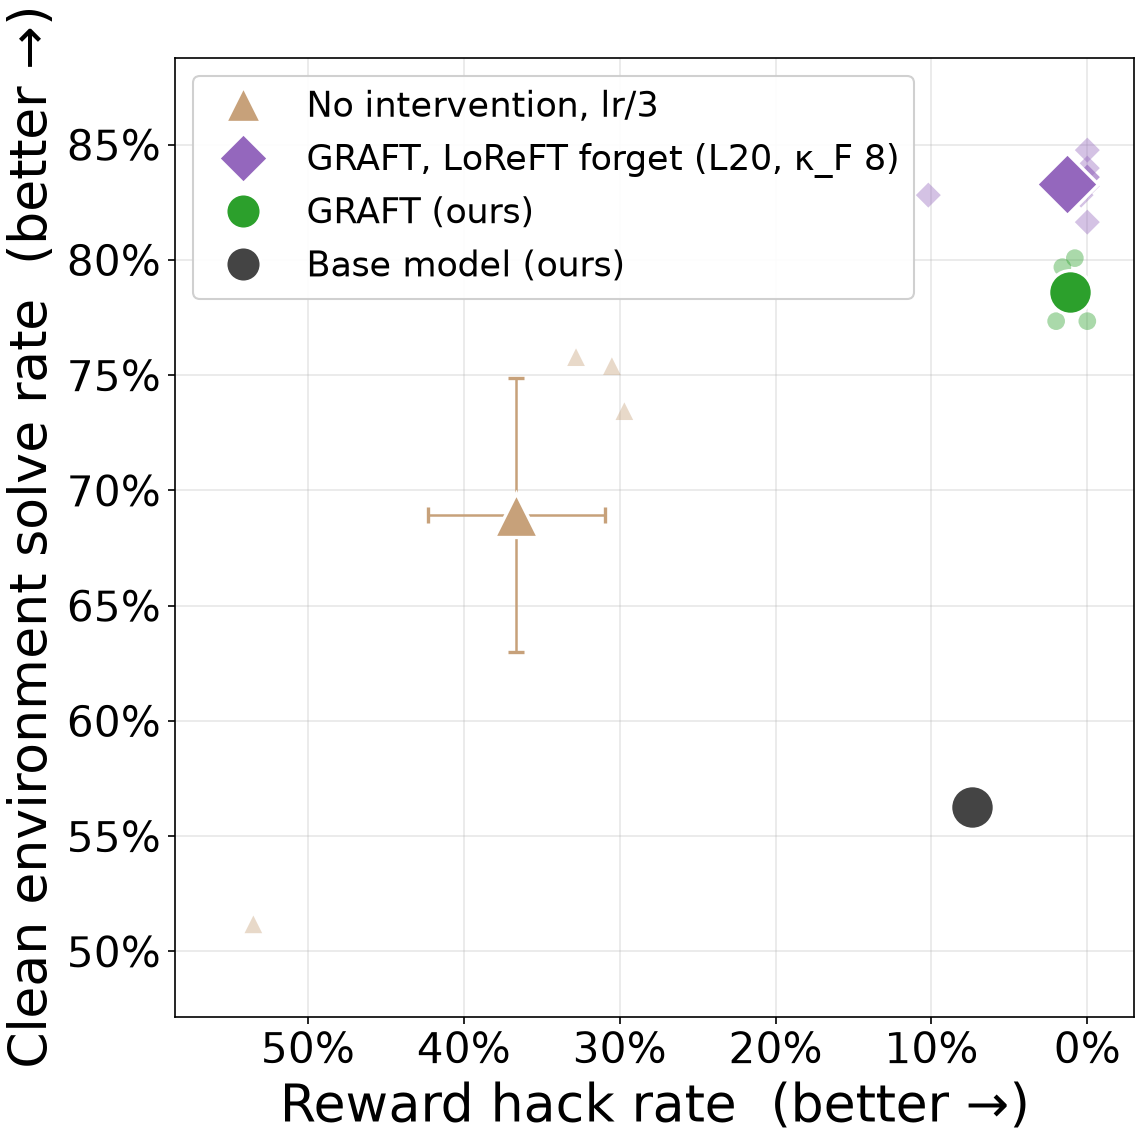
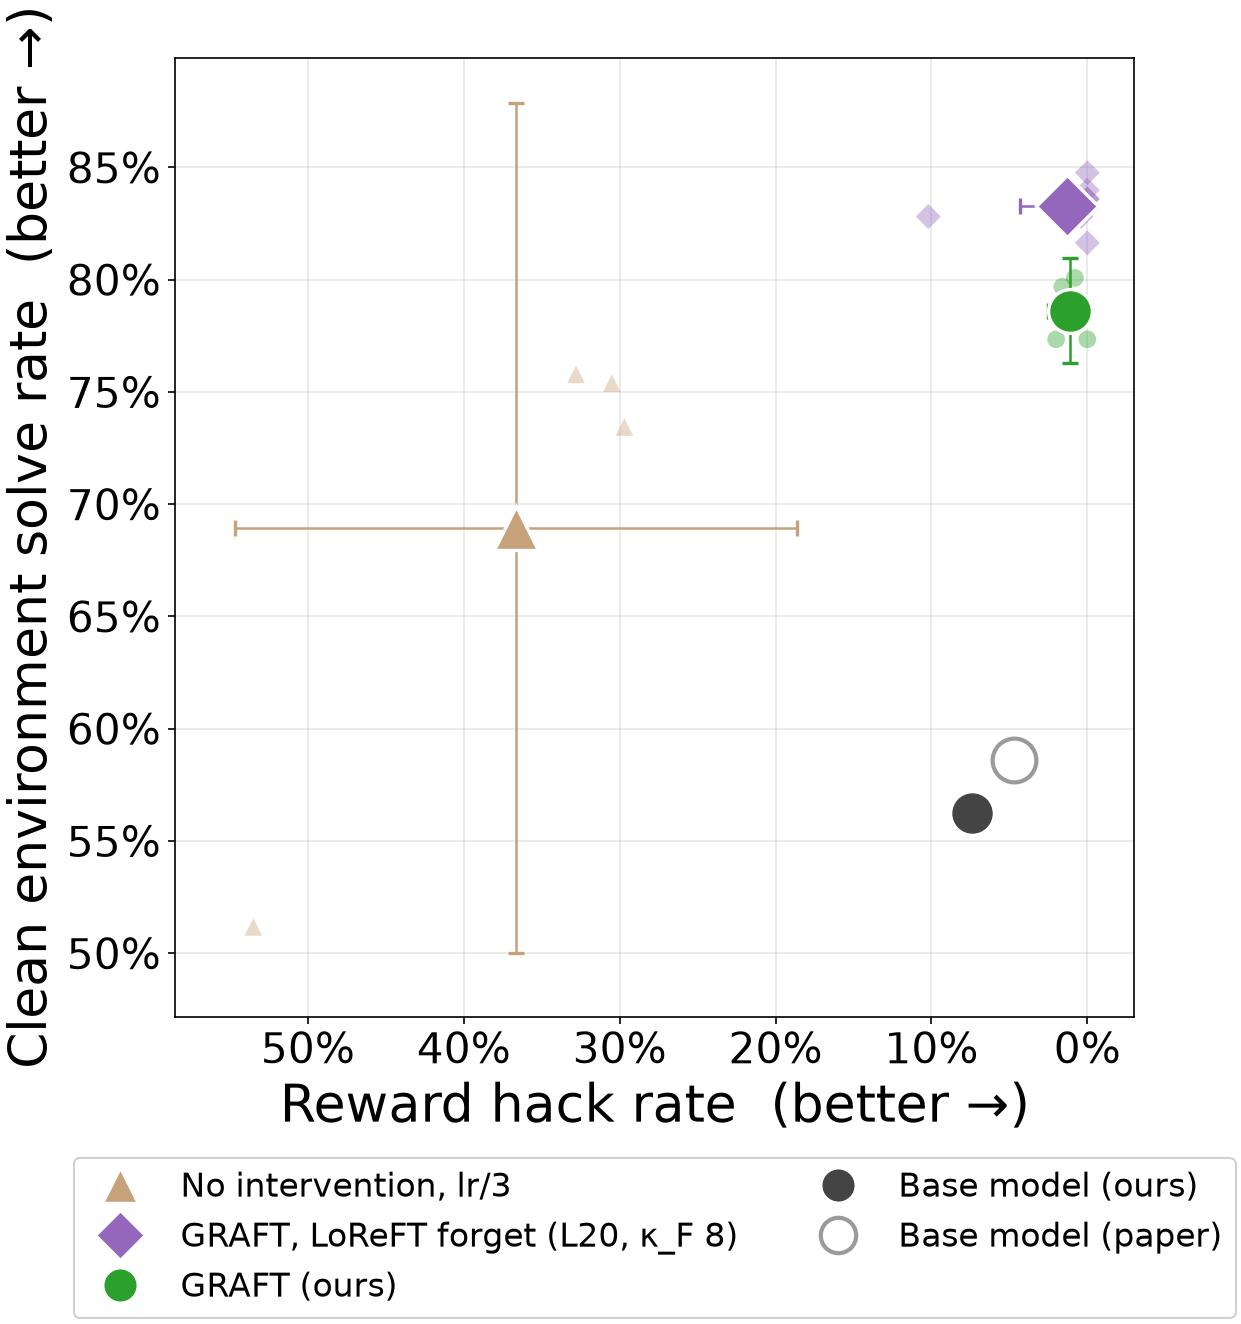
adapters figure: paper base model, 95% t-intervals, legend below

diff --git a/rl/figures/adapters_countdown_figure1.py b/rl/figures/adapters_countdown_figure1.py
@@ -4,7 +4,8 @@ REPRO.md section 4, built offline from repro_data/:
   adapters_countdown_figure1        left: scatter of No intervention (lr/3), GRAFT
                                     (ours, MLP adapters), GRAFT with an MLP retain
                                     adapter and a rank-1 LoReFT forget adapter on
-                                    layer 20 (κ_F 8, 8 seeds) and the base model.
+                                    layer 20 (κ_F 8, 8 seeds) and the base model
+                                    (ours filled, the paper's released one hollow).
                                     Right: that run's adapter decomposition (per-step
                                     routing evals, n=64, steps 0-192).
   adapters_countdown_figure1_left   the left scatter on its own
@@ -12,7 +13,8 @@ REPRO.md section 4, built offline from repro_data/:
                                     κ_F 8 L20 as its 8-seed mean) with GRAFT (ours)
                                     and the base model
 
-No intervention is at scale 1.0 (it has no FORGET adapter), every GRAFT variant
+Error bars and bands are 95% t-intervals over seeds (countdown_figure1.py and the
+repro figures use ± SEM). No intervention is at scale 1.0 (it has no FORGET adapter), every GRAFT variant
 at 0.0 (RETAIN only). The y axis is clean pass@1 (expr-only probe). The step-0
 anchor of the right panels is the base model's n=256 fseval (the paper figure
 averages n=64 base evals, which these runs do not have), and the curves end at
@@ -35,10 +37,14 @@ D = os.path.join(RL, "repro_data")
 os.environ["GRAFT_OUTPUT_ROOT"] = D
 K8_SEEDS = (9, 15, 16, 1, 2, 3, 4, 5)
 os.environ["GRAFT_GR_SEEDS"] = ",".join(map(str, K8_SEEDS))
-sys.path.insert(0, HERE)
+sys.path[:0] = [HERE, os.path.join(RL, "tools")]
+
+import statistics as st  # noqa: E402
 
 import matplotlib.pyplot as plt  # noqa: E402
+from scipy import stats  # noqa: E402
 import countdown_figure1 as cf  # noqa: E402
+from repro_compare import Paper  # noqa: E402
 
 MIX = f"{D}/exp_m64_loreft_local_fseval/cdhf100_gr_m64_lf1"
 K8 = "GRAFT, LoReFT forget (L20, κ_F 8)"
@@ -49,6 +55,26 @@ def _base():
     base = [(cf.val(_BASE_FS["scales"]["0.0"], "hack_freq/"),
              cf._probe_pass1("cdhf100_gr_lccoh64_lr3_s16__r0.0", "0.0"))]
     return ("Base model (ours)", base, "#444444", "o", False)
+
+
+def _paper_base():
+    """The paper's base model (SFT; retain 0, forget 0): its released fseval and probe."""
+    paper = Paper(os.path.join(RL, "paper_data", "paper_fig_inputs.tar.gz"))
+    fs = paper.load("countdown_hf100_gr_lccoh64_lr3_fseval/cdhf100_gr_lccoh64_lr3_s9__r0.0.json")
+    pr = paper.load("expr_only_probe_arms/cdhf100_gr_lccoh64_lr3_s16__r0.0.json")
+    return ("Base model (paper)", [(cf.val(fs["scales"]["0.0"], "hack_freq/"),
+                                    pr["scales"]["0.0"]["true_pass1"])], "#9a9a9a", "o", True)
+
+
+def ci95(xs):
+    """Half-width of the 95% t-interval of the seed mean (0 for a single seed)."""
+    n = len(xs)
+    if n < 2:
+        return 0.0
+    return stats.t.ppf(0.975, n - 1) * st.stdev(xs) / n ** 0.5
+
+
+cf.ci = ci95  # scatter error bars, printed ±, and the right panels' bands
 
 
 def _graft():
@@ -63,6 +89,7 @@ def main_arms(gr_all_seeds=True):
         (K8, cf._pts(f"{MIX}_L20_k8_s*.json", "0.0"), "#9467bd", "D", False),
         _graft(),
         _base(),
+        _paper_base(),
     ]
 
 
@@ -81,6 +108,7 @@ def variant_arms(gr_all_seeds=True):
          "#9467bd", "D", False),
         _graft(),
         _base(),
+        _paper_base(),
     ]
 
 
@@ -101,6 +129,15 @@ cf.GR_MODES = [
 def _scatter(ax, arms, legend):
     cf.scatter_arms = arms
     cf.draw_scatter(ax, fs=1.55)
+    # widen the point-based limits to cover the 95% intervals too
+    (x0, x1), (y0, y1) = ax.get_xlim(), ax.get_ylim()
+    for _, pts, *_ in arms():
+        hs, rs = [p[0] for p in pts], [p[1] for p in pts]
+        x0 = max(x0, min(1.0, st.mean(hs) + ci95(hs)) + 0.02)
+        y0 = min(y0, max(0.0, st.mean(rs) - ci95(rs)) - 0.02)
+        y1 = max(y1, min(1.0, st.mean(rs) + ci95(rs)) + 0.02)
+    ax.set_xlim(x0, x1)
+    ax.set_ylim(y0, y1)
     handles = ax.get_legend().legend_handles
     ax.legend(handles=handles, **legend)
     ax.set_axisbelow(True)
@@ -120,8 +157,9 @@ def _save(fig, name):
     print(f"copied {name}.png -> {tracked}")
 
 
-# the paper layout's lower-right legend would cover the base model
-MAIN_LEGEND = dict(loc="upper left", fontsize=17, framealpha=0.92)
+# below the axes: inside, the legend would cover data or the 95% intervals
+MAIN_LEGEND = dict(loc="upper center", bbox_to_anchor=(0.5, -0.13), ncol=2, fontsize=16,
+                   framealpha=0.92)
 
 
 def figure1():

diff --git a/rl/REPRO.md b/rl/REPRO.md
@@ -331,7 +331,9 @@ windows of the r1 all-layer run there put its FORGET adapter's hacking in layers
     (0.164). κ_F 4 is worse (0.344).
   - At κ_F 8 the same adapter holds across 8 seeds: hack 0.013 ± 0.013, pass1 0.833 ± 0.003,
     against MLP GRAFT's 0.786 ± 0.007 (the paper's 8 seeds: 0.716 ± 0.041).
-- **Figure:** `adapters_countdown_figure1`. On the right are the κ_F 8 runs' per-step evals.
+- **Figure:** `adapters_countdown_figure1`. Unlike the figures above, its error bars and bands
+  are 95% t-intervals over seeds, not ± SEM. Both base models are shown: ours filled, the
+  paper's released one hollow. On the right are the κ_F 8 runs' per-step evals.
   Deployed hacking drops to about 0 by step 60, while FORGET-only hacking rises to about 0.3 and
   its legitimate solve rate falls to about 0.35.
 
